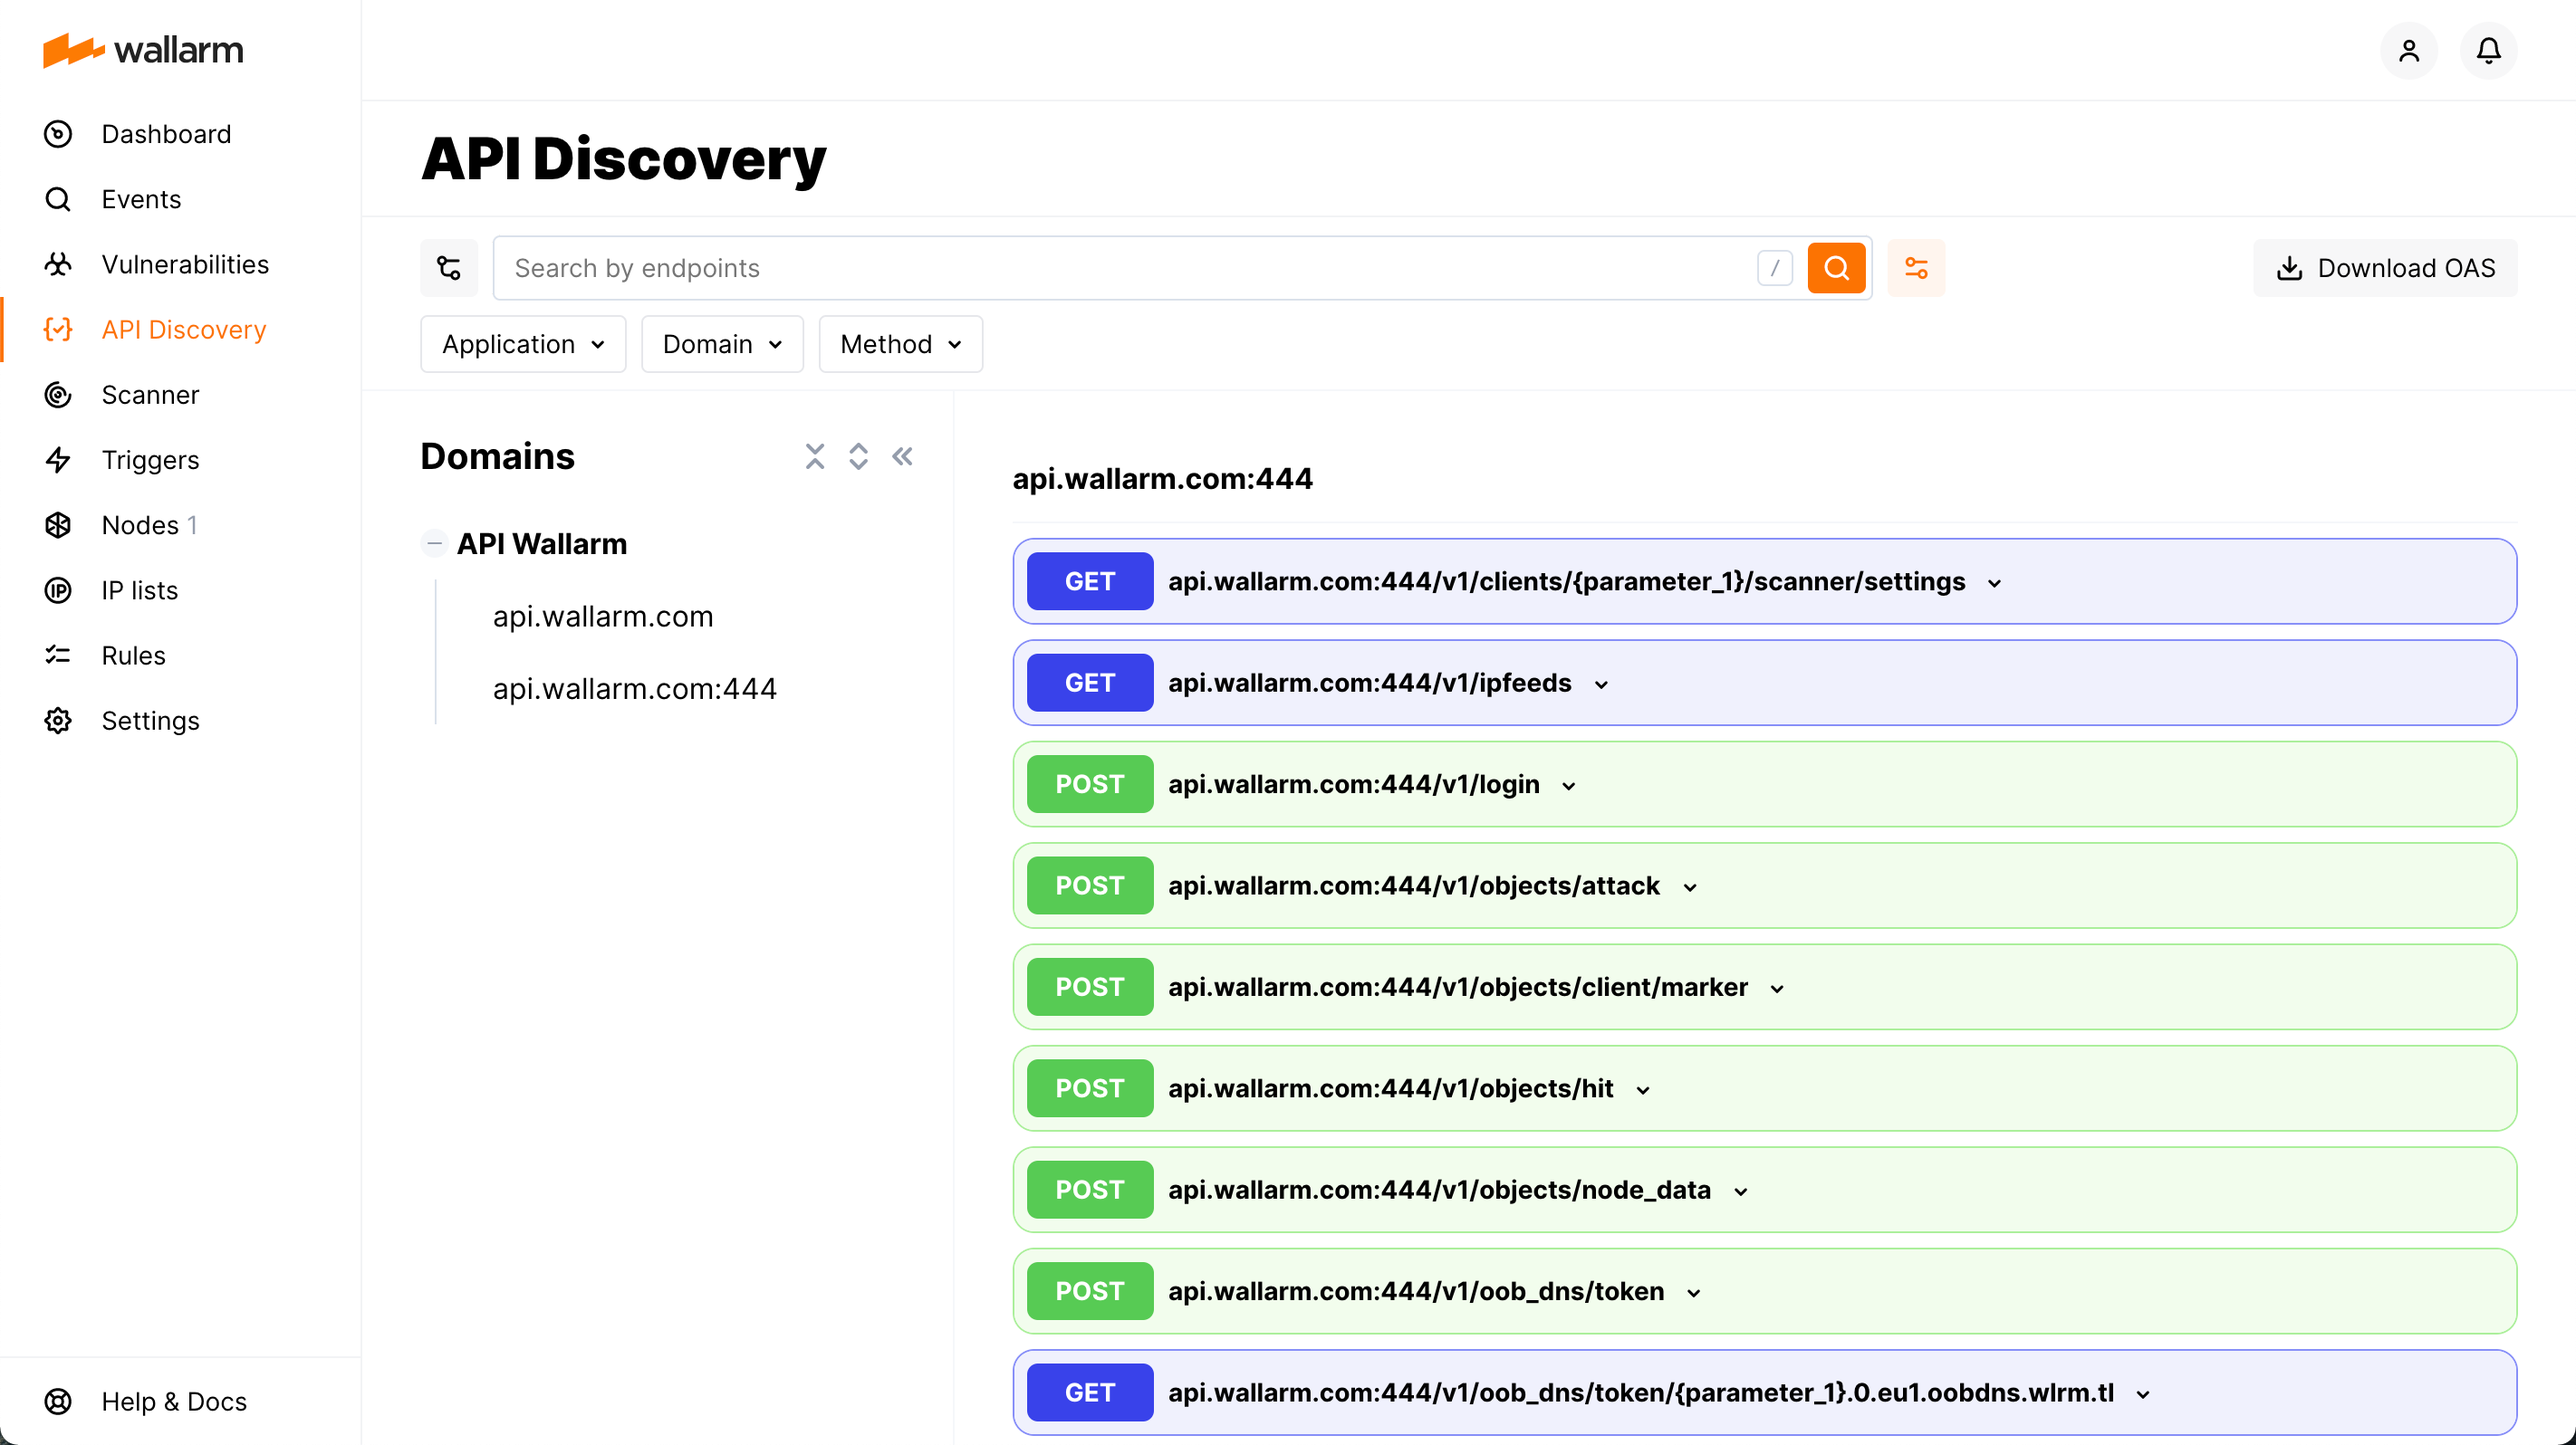
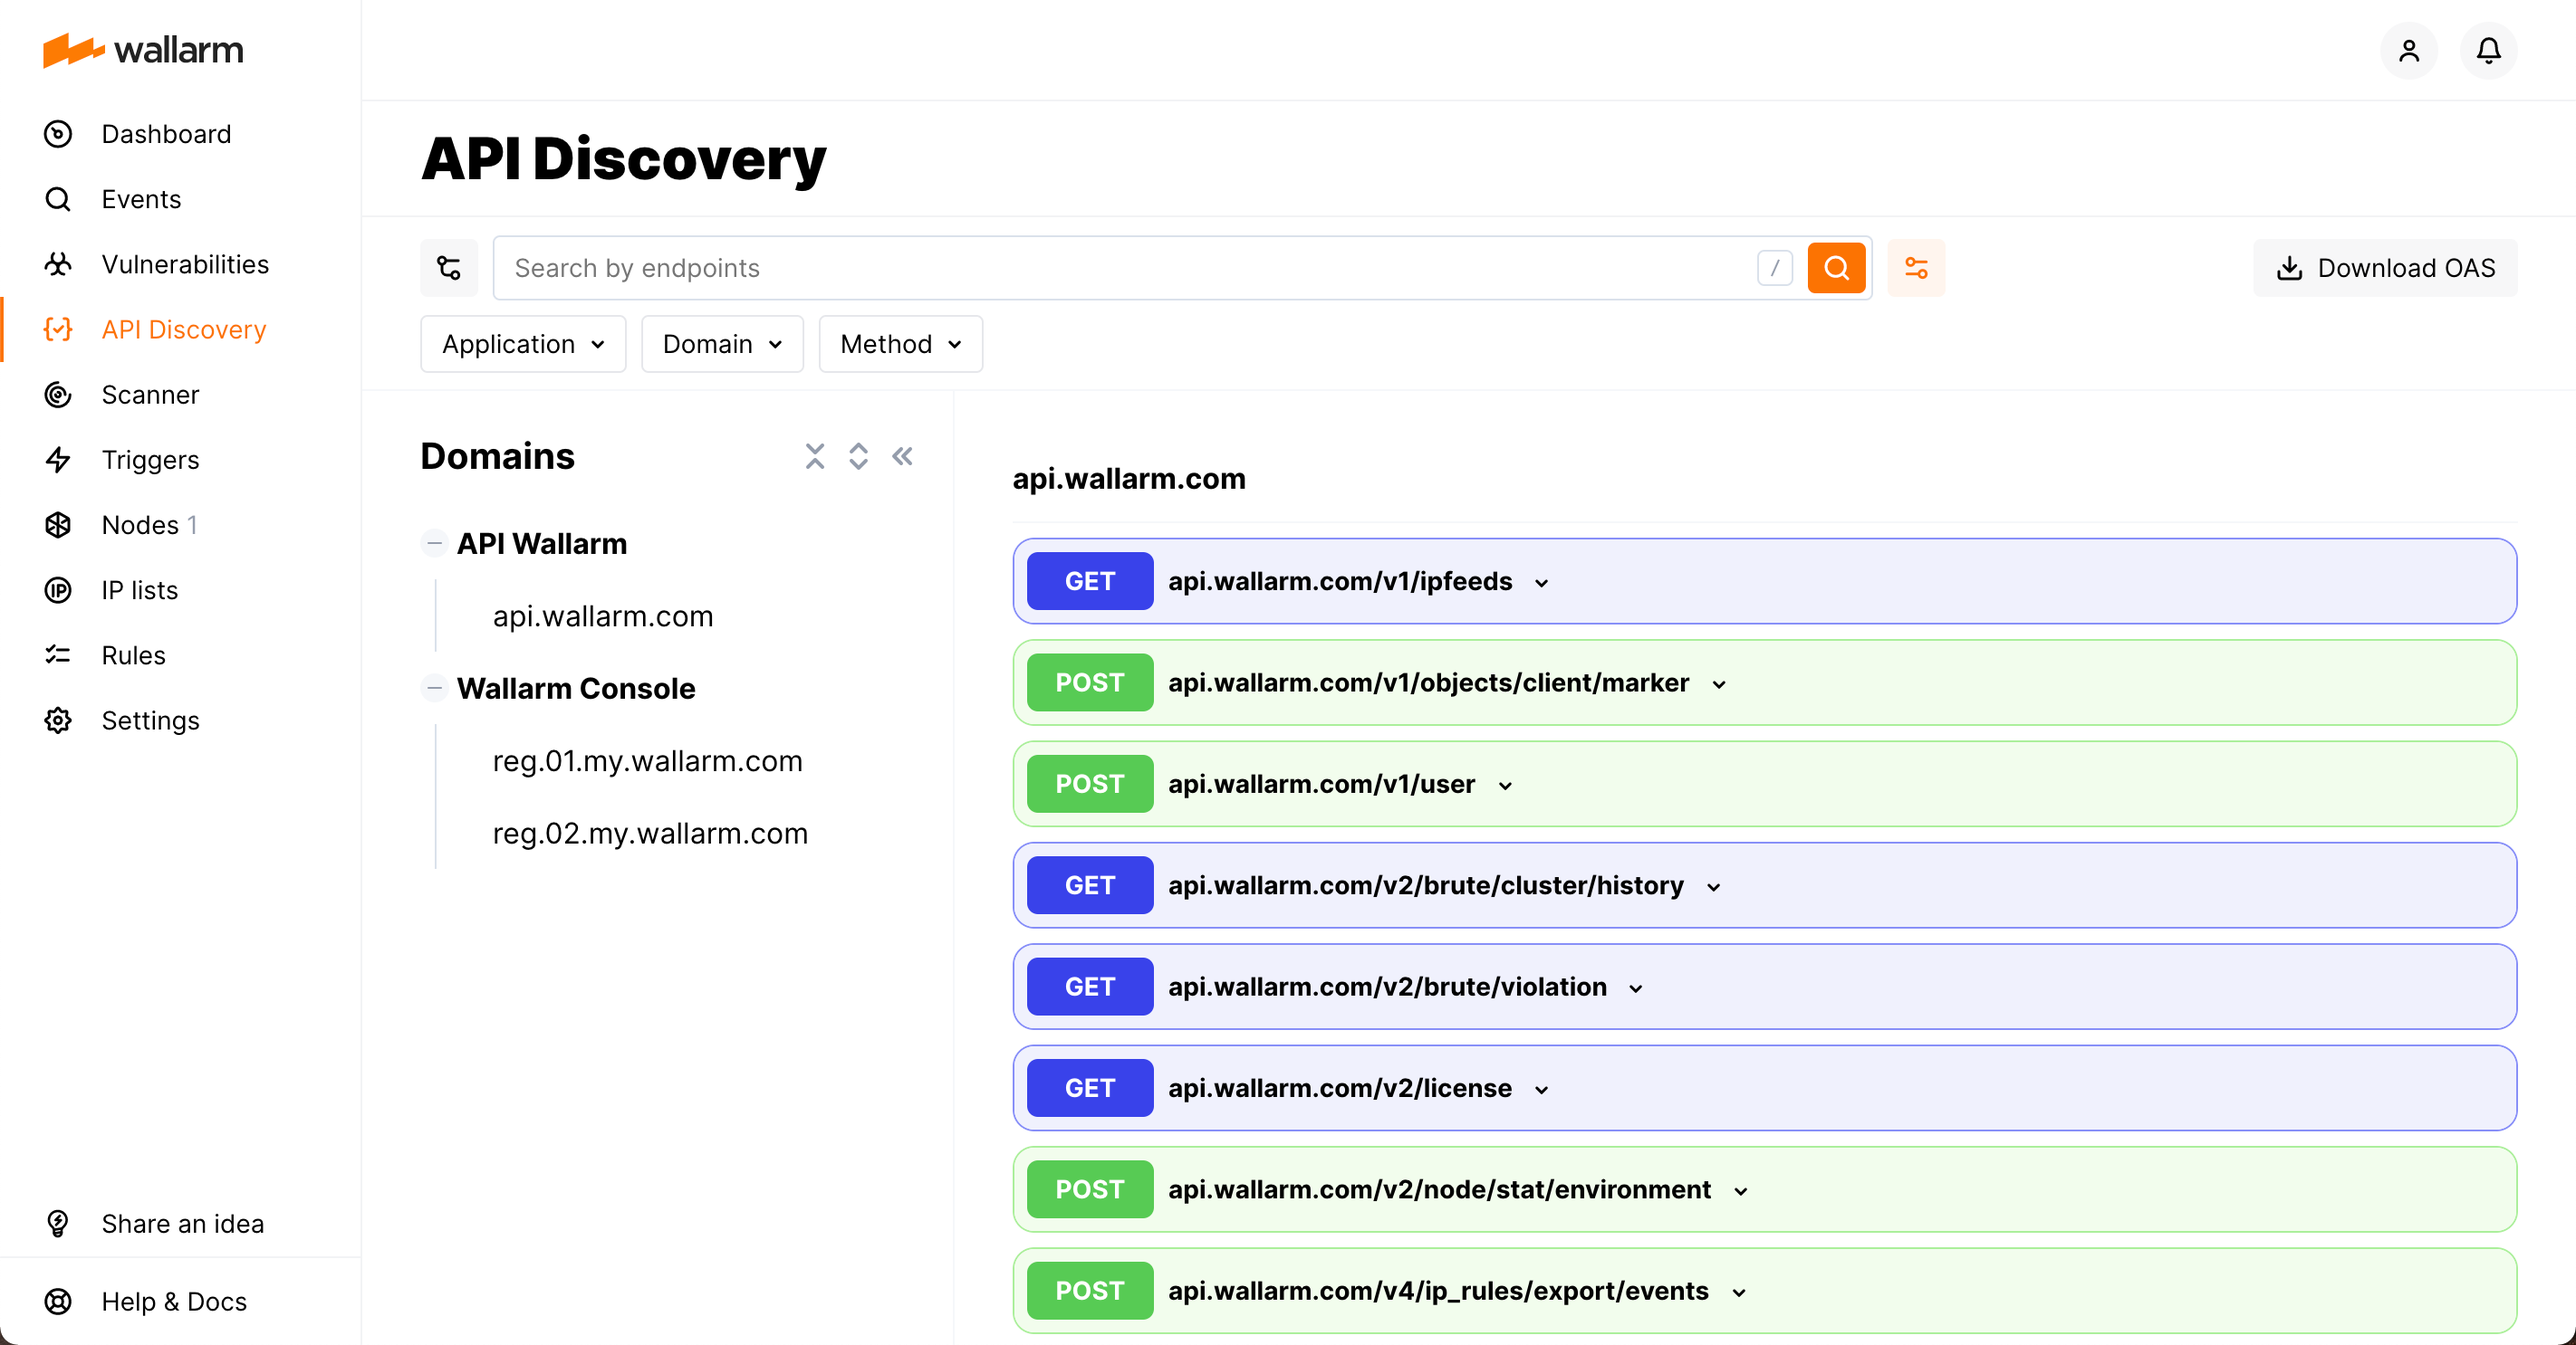
DOCS-1410 - Fixes due to comments

diff --git a/docs/latest/about-wallarm-waf/api-discovery.md b/docs/latest/about-wallarm-waf/api-discovery.md
@@ -64,53 +64,49 @@ To run API Discovery correctly:
     }
     ```
     API Discovery uses the `wallarm_instance` value to identify the application the traffic is flowing to and build a separate API structure for each application. If the `wallarm_instance` directive is not configured, structures of all APIs are grouped in one tree.
-2. Send a request to enable traffic analysis with API Discovery to the [Wallarm technical support](mailto:support@wallarm.com). The request should include the following data:
+2. Send a request to enable traffic analysis with API Discovery to the [Wallarm technical support](mailto:support@wallarm.com). You may request enabling entire API Discovery (all applications) or only for selected applications. The request should include the following data:
 
     * Name of your company account registered in Wallarm Console.
     * Name of the [Wallarm Cloud](overview.md#cloud) being used.
+    * If you want to enable API Discovery only for the selected applications, mention that requirement and list IDs of applications to be discovered. Application ID is the value of `wallarm_instance`.
 
 Once the API Discovery module is enabled, it will start the traffic analysis and API structure building. The API structure will be displayed in the **API Discovery** section of Wallarm Console.
 
 ## API structure visualization
 
-The structure of each application API is displayed as a separate tree in the **API Discovery** section of Wallarm Console. Each application tree is organized like follows:
+To provide users with familiar format of API representation, Wallarm visualizes the discovered API structure in a **swagger-like manner**.
 
-* `Application name`
-    * `Domain 01`
-    * ...
-    * `Domain XX`
-
-The API structure includes the following elements (grouped by domain):
+The API structure includes the following elements (grouped by application and domain):
 
 * The set of API endpoints discovered by API Discovery
 * Methods of requests processed at API endpoints
 
 ![!Endpoints discovered by API Discovery](../images/about-wallarm-waf/api-discovery/discovered-api-endpoints.png)
 
+You can filter the discovered API structure:
+
+* Type in the search string for endpoint search.
+* Use **Application**, **Domain** and **Method** filters.
+* In the **Domains** panel, click application or domain.
+
 By clicking the endpoint, you can also find the set of required and optional parameters that can be sent in a particular request part.
 
 ![!Request parameters discovered by API Discovery](../images/about-wallarm-waf/api-discovery/discovered-request-params.png)
 
-You can filter the discovered API structure:
-
-* Type in the search string.
-* Use **Application**, **Domain** and **Method** filters.
-* In the **Domain** list, click application or domain.
-
-If you need some endpoint URL, in this endpoint string, click down arrow and then from the menu select **Copy URL**.
+If you need some endpoint URL, in this endpoint string, click down arrow and then from the menu select **Copy URL**. You can use copied URL to use in filters in the **Events** section of Wallarm Console.
 
 ## API structure and rules
 
-Currently API structure tree and a [custom ruleset](../user-guides/rules/intro.md) tree created in the **Rules** section are not linked to each other.
+You can quickly create a new [rule](../user-guides/rules/intro.md) from any endpoint of API structure: 
 
-You can create new rule from any endpoint of API structure: 
+1. In the endpoint string, click down arrow and then from the menu select **Create rule**. The create rule window is displayed. The endpoint address is parsed into the window automatically.
+1. In the create rule window, specify rule information and then click **Create**.
 
-1. In the endpoint string, click down arrow and then from the menu select **Create rule**. The create rule dialog is displayed. The endpoint address is parsed into the dialog automatically.
-1. In the create rule dialog, specify rule information and then click **Create**.
+![!Create rule from endpoint](../images/about-wallarm-waf/api-discovery/endpoint-create-rule.png)
 
 ## Download OpenAPI Specification (OAS) for your API structure
 
-Click **Download OAS** to get a `swagger.json` file with your API structure description. The description will be in the OpenAPI v3 format.
+Click **Download OAS** to get a `swagger.json` file with the description of the API structure discovered by Wallarm. The description will be in the [OpenAPI v3 format](https://spec.openapis.org/oas/v3.0.0).
 
 ## API Discovery debugging
 
